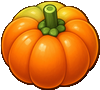
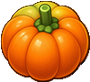
minor

diff --git a/services/base/index.html b/services/base/index.html
@@ -6,7 +6,7 @@
   <meta name="description" content="Игра 'Template' – увлекательный Hidden Object Game. Исследуй загадочные места, находи улики и решай тайны. Играй сейчас!">
   <meta name="keywords" content="поиск предметов, hidden object game, улики и тайны, игра поиск предметов, загадки, тайны, онлайн игра">
   <link rel="shortcut icon" href="#" type="image/x-icon">
-  <title>Template</title>
+  <title>base Template</title>
 </head>
 <body style="background: black">
   <div id="canvas-wrapper"></div>

diff --git a/src/game/Game.ts b/src/game/Game.ts
@@ -35,7 +35,7 @@ export default class Game extends EventEmitter {
   clearLevelCache?: () => void
   #app!: Application
   #states: BaseState[] = []
-  #stateAfterPreload = GAME_STATES.levelPreload
+  #stateAfterPreload = GAME_STATES.gameState
   #gameContainer!: GameContainer
   #locale: string | undefined
   #currentStateName: string | undefined

diff --git a/src/game/gameConfig/constants.ts b/src/game/gameConfig/constants.ts
@@ -72,6 +72,7 @@ const PLATFORM_SCENARIOS = {
   // режим для сайтов, собирается из base адаптера
   BASE: {
     noStore: true,
+    skipFirstScreen: true, // если true - грузится сразу уровень
   },
   CRAZY_GAMES: {
     noStore: true,

diff --git a/services/dev/index.html b/services/dev/index.html
@@ -3,7 +3,7 @@
 <head>
   <meta charset="UTF-8">
   <meta name="viewport" content="width=device-width, initial-scale=1.0, maximum-scale=1.0, user-scalable=no">
-  <title>Template</title>
+  <title>dev Template</title>
 </head>
 <body style="background: black">
   <div id="canvas-wrapper"></div>
